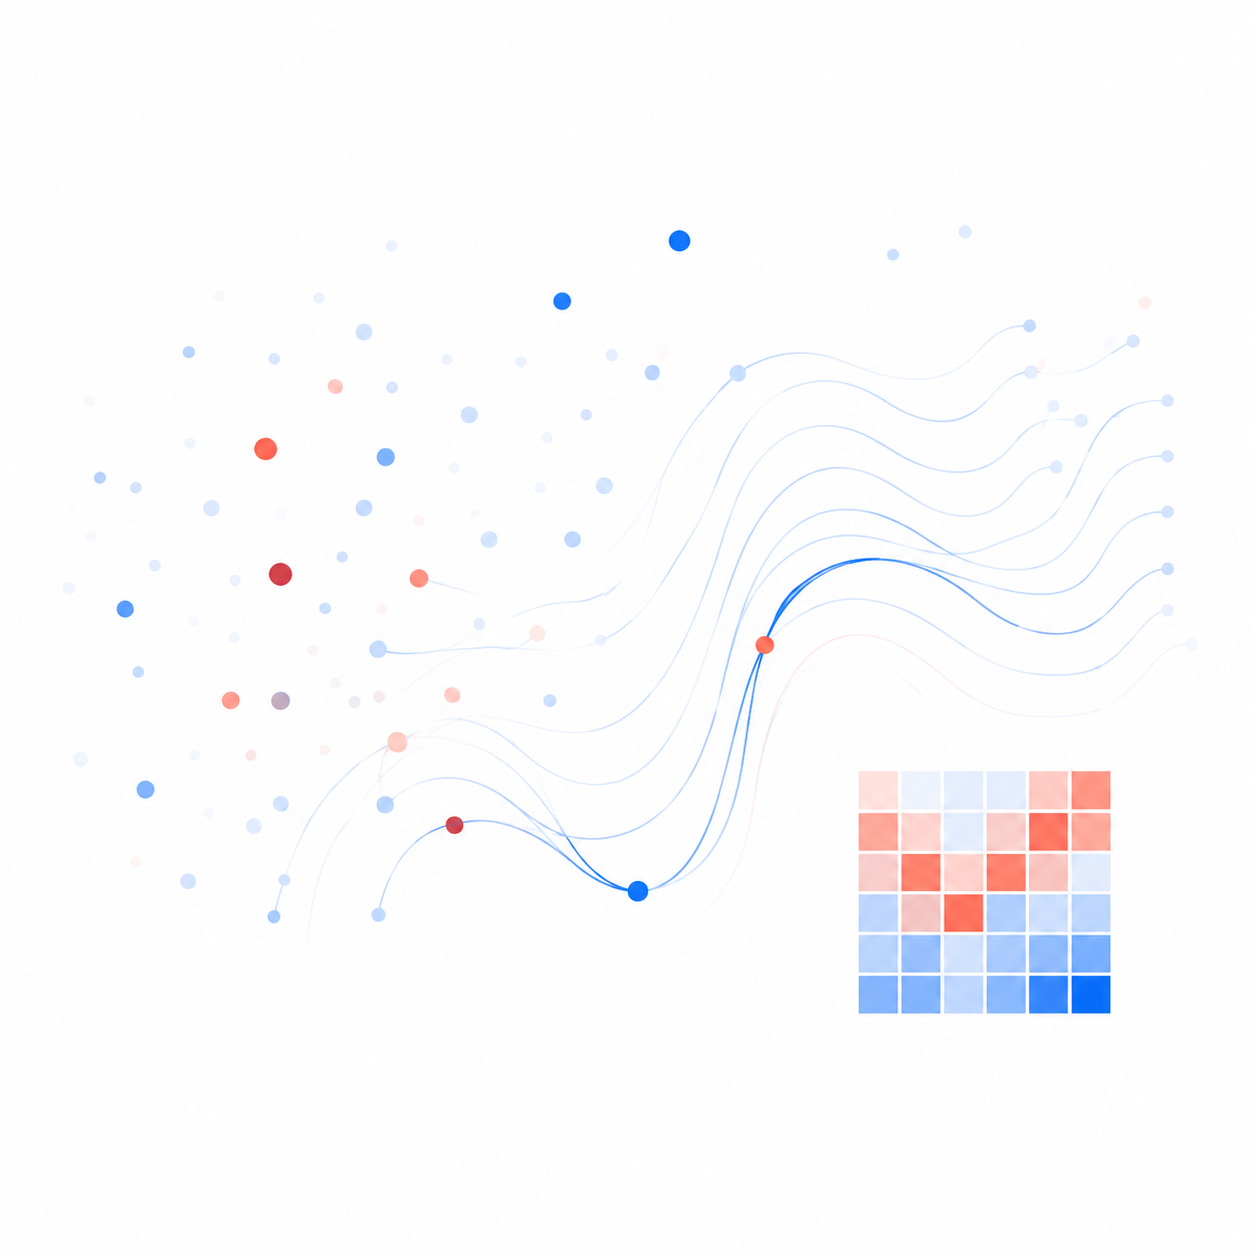
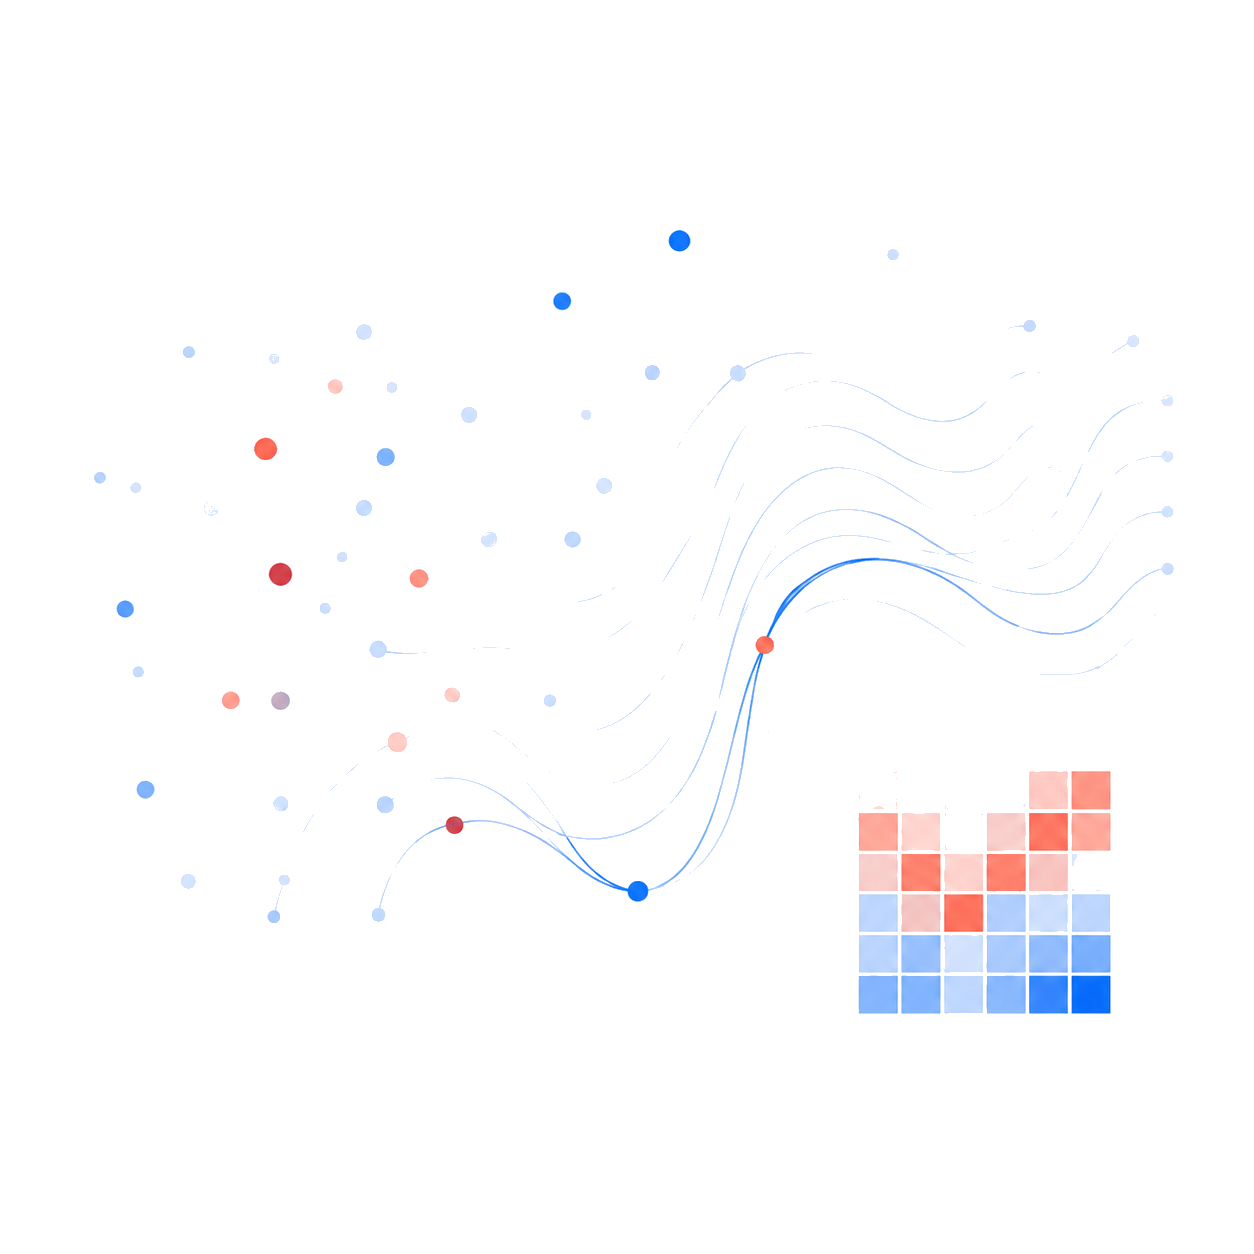
Add illustrations for WP4/WP5 and a proper social share image
- Add research_4.png/research_5.png so Clinical Usage and
  Reproducibility & open-source show a real illustration instead of
  the 'Illustration coming soon' placeholder; all 5 work packages now
  have artwork
- Add logo_og.png and point meta_og_image/meta_twitter_image at it
  instead of the theme's leftover placeholder
- Updated ERC/flag logo and research_1-3 images to latest versions
- Also picking up an earlier partners strip padding fix (py-10 ->
  py-6) that was made but never committed

diff --git a/_includes/components/sections/home/partners.html b/_includes/components/sections/home/partners.html
@@ -1,6 +1,6 @@
 {% if page.partners.enable %}
 <section class="wrapper bg-soft-ash">
-  <div class="container py-10">
+  <div class="container py-6">
     <div class="row justify-content-center align-items-center gx-10 gx-lg-16 gy-6 text-center">
       {% for logo in page.partners.logos %}
       <div class="col-6 col-lg-auto">

diff --git a/index.md b/index.md
@@ -64,9 +64,11 @@ research_section:
     - image: "/assets/img/research_3.png"
       title: "Neurovascular atlas construction"
       text: "Constructing a spatio-temporal atlas of the cerebral vascular system to capture anatomical variability across scales and populations."
-    - title: "Clinical Usage"
+    - image: "/assets/img/research_4.png"
+      title: "Clinical Usage"
       text: "Translating CARAVEL's methods into tools that support clinical decision-making and neurovascular risk assessment."
-    - title: "Reproducibility & open-source"
+    - image: "/assets/img/research_5.png"
+      title: "Reproducibility & open-source"
       text: "Releasing open datasets, code and benchmarks so the research community can validate, reuse and build on CARAVEL's results."
 
 # Publications Section
